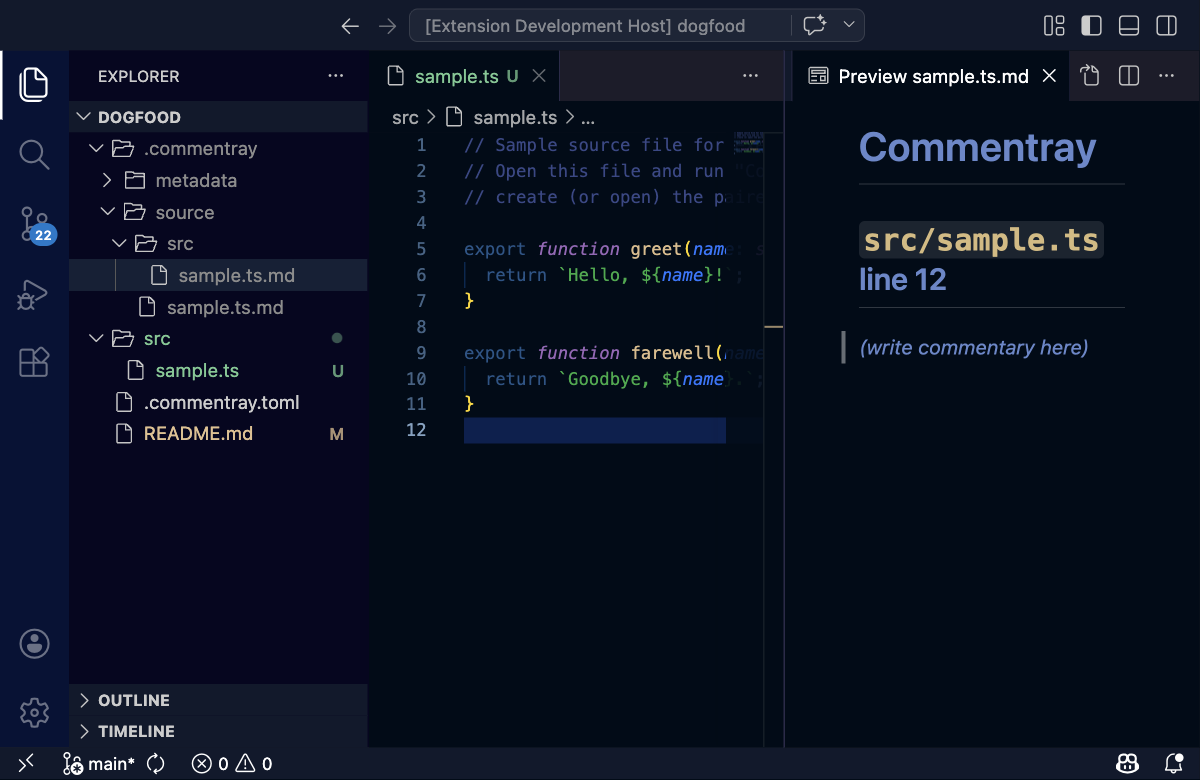
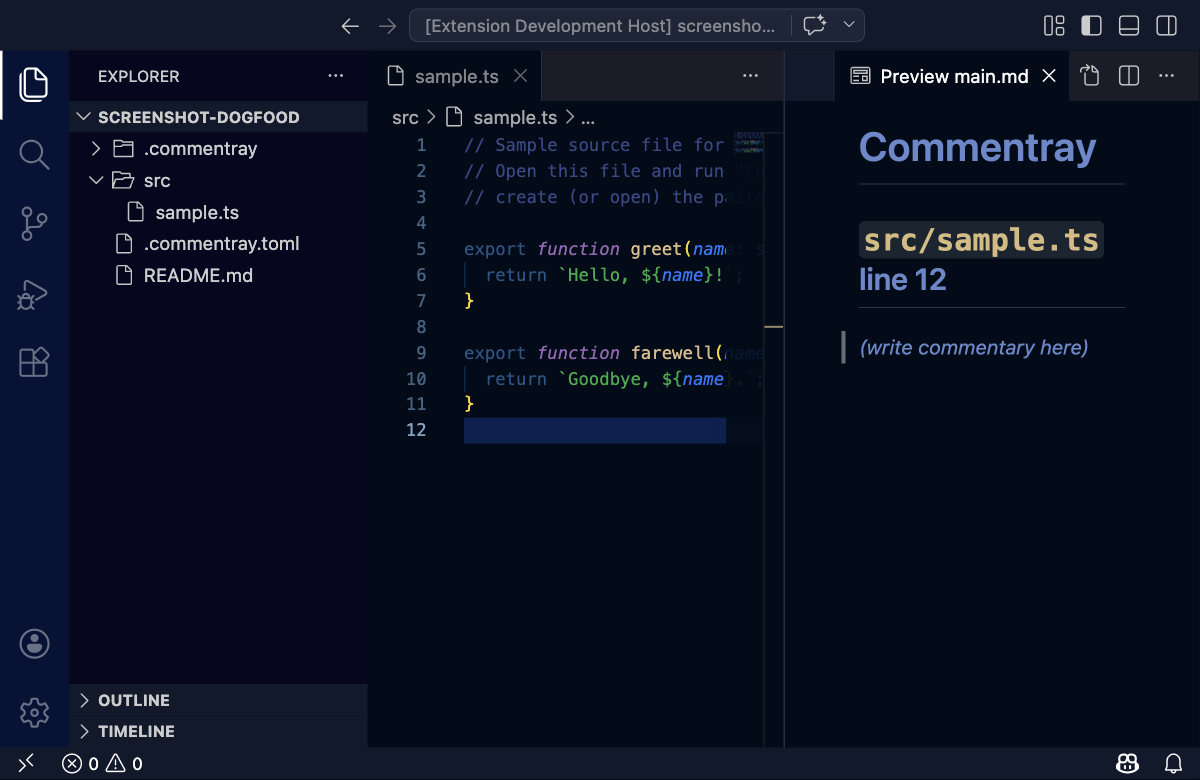
Update screenshots and enhance README documentation for automation
- Updated multiple PNG assets in the README to reflect recent changes in the extension's functionality.
- Revised the README to clarify the automation process for generating screenshots, including the use of a temporary workspace with Angles enabled for accurate Quick Pick representation.
- Improved error handling in the extension code to log issues when reading index files, enhancing debugging capabilities.
- Adjusted script permissions for various shell scripts to ensure proper execution.

diff --git a/packages/vscode/src/extension.ts b/packages/vscode/src/extension.ts
@@ -45,9 +45,33 @@ type PairedPaths = {
 };
 
 let activePair: ScrollPair | undefined;
+/** Last pair we bound scroll sync for; kept when listeners are disposed so toggling sync back on can reattach. */
+let lastBoundScrollPair: ScrollPair | undefined;
 let scrollSyncDisposable: vscode.Disposable | undefined;
 let ignoreScrollPairEvents = false;
 let blockRefreshTimer: ReturnType<typeof setTimeout> | undefined;
+let commentrayOutput: vscode.OutputChannel | undefined;
+
+function logCommentray(line: string): void {
+  commentrayOutput?.appendLine(line);
+}
+
+function scrollPairEditorsReachable(pair: ScrollPair): boolean {
+  return (
+    vscode.window.visibleTextEditors.some((e) => e.document === pair.code.document) &&
+    vscode.window.visibleTextEditors.some((e) => e.document === pair.commentray.document)
+  );
+}
+
+function applyScrollSyncSettingFromConfig(): void {
+  if (scrollSyncEnabled()) {
+    if (!activePair && lastBoundScrollPair && scrollPairEditorsReachable(lastBoundScrollPair)) {
+      bindScrollSync(lastBoundScrollPair);
+    }
+  } else {
+    disposeScrollSync();
+  }
+}
 
 function storageCommentraySourcePrefix(storageDir: string): string {
   const sd = storageDir.replaceAll("\\", "/");
@@ -77,7 +101,13 @@ function withIgnoredScrollPairEvents(fn: () => void): void {
 
 async function refreshActivePairBlocks(): Promise<void> {
   if (!activePair) return;
-  const index = await readIndex(activePair.repoRoot);
+  let index: CommentrayIndex | null = null;
+  try {
+    index = await readIndex(activePair.repoRoot);
+  } catch (err) {
+    const msg = err instanceof Error ? err.message : String(err);
+    logCommentray(`[commentray] readIndex (refresh blocks): ${msg}`);
+  }
   activePair.blocks = buildBlockScrollLinks(
     index,
     activePair.sourceRelative,
@@ -138,6 +168,7 @@ function metadataIndexAbsolutePath(repoRoot: string): string {
 function bindScrollSync(pair: ScrollPair): void {
   disposeScrollSync();
   activePair = pair;
+  lastBoundScrollPair = pair;
 
   const onVisibleRanges = (event: vscode.TextEditorVisibleRangesChangeEvent) => {
     if (!activePair || ignoreScrollPairEvents) return;
@@ -258,7 +289,16 @@ async function openBesideAndSync(
   const codeEditor =
     vscode.window.visibleTextEditors.find((te) => te.document === sourceEditor.document) ??
     sourceEditor;
-  const index = await readIndex(paths.repoRoot);
+  let index: CommentrayIndex | null = null;
+  try {
+    index = await readIndex(paths.repoRoot);
+  } catch (err) {
+    const msg = err instanceof Error ? err.message : String(err);
+    logCommentray(`[commentray] readIndex (open pair): ${msg}`);
+    void vscode.window.showWarningMessage(
+      `Commentray could not read metadata index.json; block-aware scroll sync is limited until the file is valid. (${msg})`,
+    );
+  }
   const blocks = buildBlockScrollLinks(
     index,
     paths.sourceRelative,
@@ -345,7 +385,14 @@ async function upsertBlockMetadata(
   commentrayPathRel: string,
   block: Parameters<typeof addBlockToIndex>[1]["block"],
 ): Promise<void> {
-  const current: CommentrayIndex = (await readIndex(repoRoot)) ?? emptyIndex();
+  let current: CommentrayIndex;
+  try {
+    current = (await readIndex(repoRoot)) ?? emptyIndex();
+  } catch (err) {
+    const msg = err instanceof Error ? err.message : String(err);
+    logCommentray(`[commentray] readIndex (block metadata): ${msg}`);
+    current = emptyIndex();
+  }
   const next = addBlockToIndex(current, {
     sourcePath: sourceRelative,
     commentrayPath: commentrayPathRel,
@@ -592,8 +639,12 @@ async function openCommentrayPreviewCommand(): Promise<void> {
 
 export function activate(context: vscode.ExtensionContext) {
   const output = vscode.window.createOutputChannel("Commentray");
-  context.subscriptions.push(output);
+  commentrayOutput = output;
+
+  // Register commands before any listener that might throw — otherwise the host can show
+  // "command … not found" when activation aborts mid-way.
   context.subscriptions.push(
+    output,
     vscode.commands.registerCommand("commentray.openSideBySide", openSideBySideCommand),
     vscode.commands.registerCommand("commentray.openCommentrayAngle", openCommentrayAngleCommand),
     vscode.commands.registerCommand("commentray.addAngleDefinition", addAngleDefinitionCommand),
@@ -608,10 +659,21 @@ export function activate(context: vscode.ExtensionContext) {
     vscode.commands.registerCommand("commentray.validateWorkspace", () =>
       validateWorkspaceCommand(output),
     ),
+    vscode.workspace.onDidChangeConfiguration((e) => {
+      try {
+        if (!e.affectsConfiguration("commentray.scrollSync")) return;
+        applyScrollSyncSettingFromConfig();
+      } catch (err) {
+        const msg = err instanceof Error ? err.message : String(err);
+        logCommentray(`[commentray] scroll sync setting handler: ${msg}`);
+      }
+    }),
     { dispose: () => disposeScrollSync() },
   );
 }
 
 export function deactivate() {
   disposeScrollSync();
+  lastBoundScrollPair = undefined;
+  commentrayOutput = undefined;
 }

diff --git a/packages/vscode/README.md b/packages/vscode/README.md
@@ -73,7 +73,7 @@ For automation or keybindings, you can skip the picker with
 
 ## Screenshots for docs
 
-**Automated (desktop):** `bash scripts/refresh-vscode-readme-screenshots-desktop.sh` (or `npm run extension:vscode-readme-screenshots:desktop`) writes **`vscode-*.png`** under `.commentray/source/packages/vscode/README.md/assets/`. **Fresh worktree:** `bash scripts/commentray-screenshots-in-fresh-worktree.sh`. How scenarios are authored lives in **`.commentray/source/packages/vscode/README.md/main.md`** (Maintainer section).
+**Automated (desktop):** `bash scripts/refresh-vscode-readme-screenshots-desktop.sh` (or `npm run extension:vscode-readme-screenshots:desktop`) writes **`vscode-*.png`** under `.commentray/source/packages/vscode/README.md/assets/`. The script copies `fixtures/dogfood` into a **temp folder** and enables **Angles** there so the “choose angle” frame shows the real Quick Pick without touching the tracked fixture. **Fresh worktree:** `bash scripts/commentray-screenshots-in-fresh-worktree.sh`. Scenario order and keys: **`.commentray/source/packages/vscode/README.md/main.md`** (Maintainer section).
 
 **Manual (extension README):** `bash scripts/refresh-vscode-readme-screenshots-manual.sh`.
 
